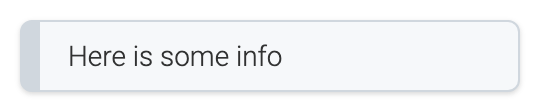
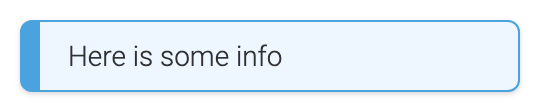
Ensure list fires change event when item disappears but index stays the same

Changed region(s): [[0.0296, 0.1607, 0.9778, 0.8304]]

diff --git a/src/list/TembaList.ts b/src/list/TembaList.ts
@@ -63,6 +63,9 @@ export class TembaList extends RapidElement {
   clearRefreshTimeout: any;
   pending: AbortController[] = [];
 
+  // used for testing only
+  preserve: boolean;
+
   // http promise to monitor for completeness
   public httpComplete: Promise<void>;
 
@@ -103,9 +106,12 @@ export class TembaList extends RapidElement {
     super.updated(changedProperties);
 
     if (changedProperties.has('endpoint') && this.endpoint) {
-      this.reset();
+      // if our tests aren't preserving our properties, reset
+      if (!this.preserve) {
+        this.reset();
+        this.loading = true;
+      }
 
-      this.loading = true;
       this.httpComplete = this.fetchItems();
     }
 
@@ -238,10 +244,20 @@ export class TembaList extends RapidElement {
         return this.getValue(item) === this.getValue(this.selected);
       });
 
+      // old selection is in the new fetch
       if (index > -1) {
         this.cursorIndex = index;
-      } else if (this.cursorIndex === -1) {
-        this.cursorIndex = 0;
+      }
+      // old selection is missing from the new fetch
+      else {
+        // if our index didn't change, our item still did, fire change
+        if (this.cursorIndex === 0) {
+          this.requestUpdate('cursorIndex');
+        }
+        // otherwise select the first item
+        else {
+          this.cursorIndex = 0;
+        }
       }
     }
 

diff --git a/test/temba-list.test.ts b/test/temba-list.test.ts
@@ -43,10 +43,33 @@ describe('temba-list', () => {
     list.addEventListener('change', changeEvent);
     list.cursorIndex = 1;
 
-    // let your event fire
+    // let our event fire
     await waitFor(0);
 
     assert(changeEvent.called, 'change event not fired');
     await assertScreenshot('list/items-selected', getClip(list));
+  });
+
+  it('fires change when first element changes after fetch', async () => {
+    const list: TembaList = await getList({
+      endpoint: '/test-assets/list/temba-list.json',
+    });
+
+    // spy on change event
+    const changeEvent = sinon.spy();
+    list.addEventListener('change', changeEvent);
+
+    list.preserve = true;
+    list.endpoint = '/test-assets/list/temba-list-shorter.json';
+
+    // refersh our endpoint
+    await waitFor(0);
+    await list.httpComplete;
+
+    // let our event fire
+    await waitFor(0);
+    assert(changeEvent.called, 'change event not fired');
+
+    await assertScreenshot('list/items-updated', getClip(list));
   });
 });

diff --git a/static/css/temba-components.css b/static/css/temba-components.css
@@ -89,9 +89,9 @@ html input {
     --color-nav-unselected: #fff;
     --color-nav-selected-bg: #fff;
     --color-nav-selected-text: var(--color-primary-dark);
-  
-    --color-info: rgb(246, 248, 250);
-    --color-info-border: rgb(208, 215, 222);
+    
+    --color-info: rgb(238, 246, 255);
+    --color-info-border: rgb(74, 163, 223);
   
     --color-warning: rgb(255, 253, 218);
     --color-warning-border: rgb(251, 246, 176);

diff --git a/test-assets/style.css b/test-assets/style.css
@@ -96,8 +96,8 @@ html {
   --color-nav-unselected: #fff;
   --color-nav-selected-bg: #fff;
   --color-nav-selected-text: var(--color-primary-dark);
-  --color-info: rgb(246, 248, 250);
-  --color-info-border: rgb(208, 215, 222);
+  --color-info: rgb(238, 246, 255);
+  --color-info-border: rgb(74, 163, 223);
 
   --color-warning: rgb(255, 253, 218);
   --color-warning-border: rgb(251, 246, 176);

diff --git a/src/list/TembaMenu.ts b/src/list/TembaMenu.ts
@@ -392,8 +392,12 @@ export class TembaMenu extends RapidElement {
   }
 
   public setSelection(path: string[]) {
+    console.log('Setting selection', path);
     this.pending = [...path];
     this.selection = [];
+    if (this.root) {
+      this.loadItems(this.root);
+    }
   }
 
   private isSelected(menuItem: MenuItem) {
